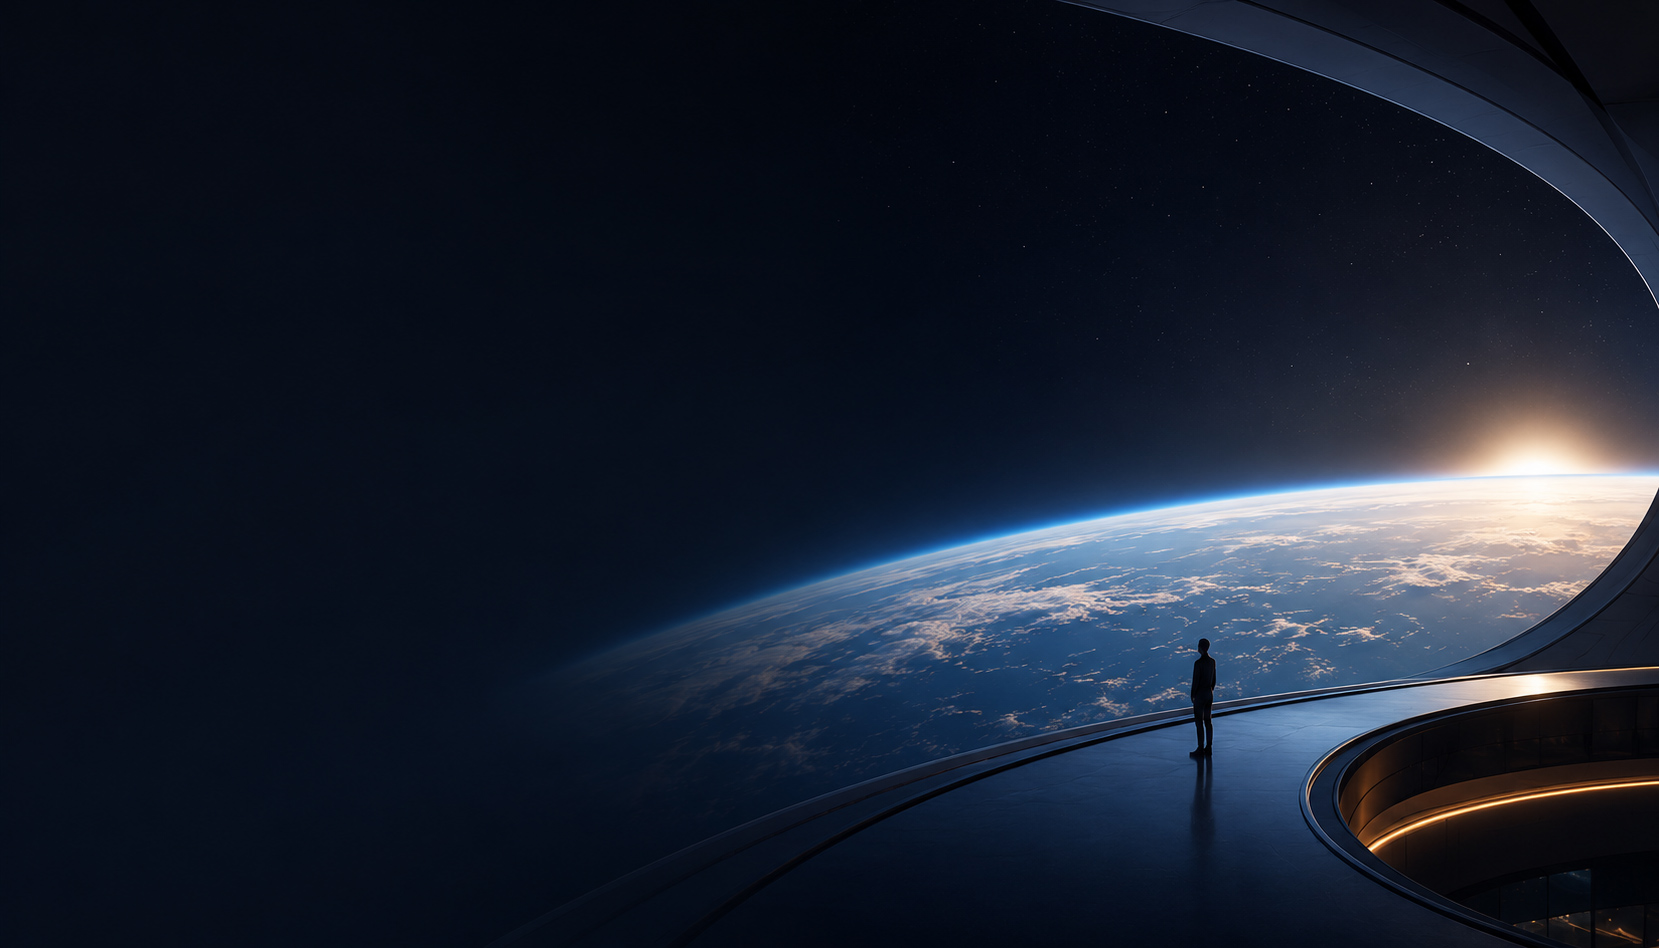
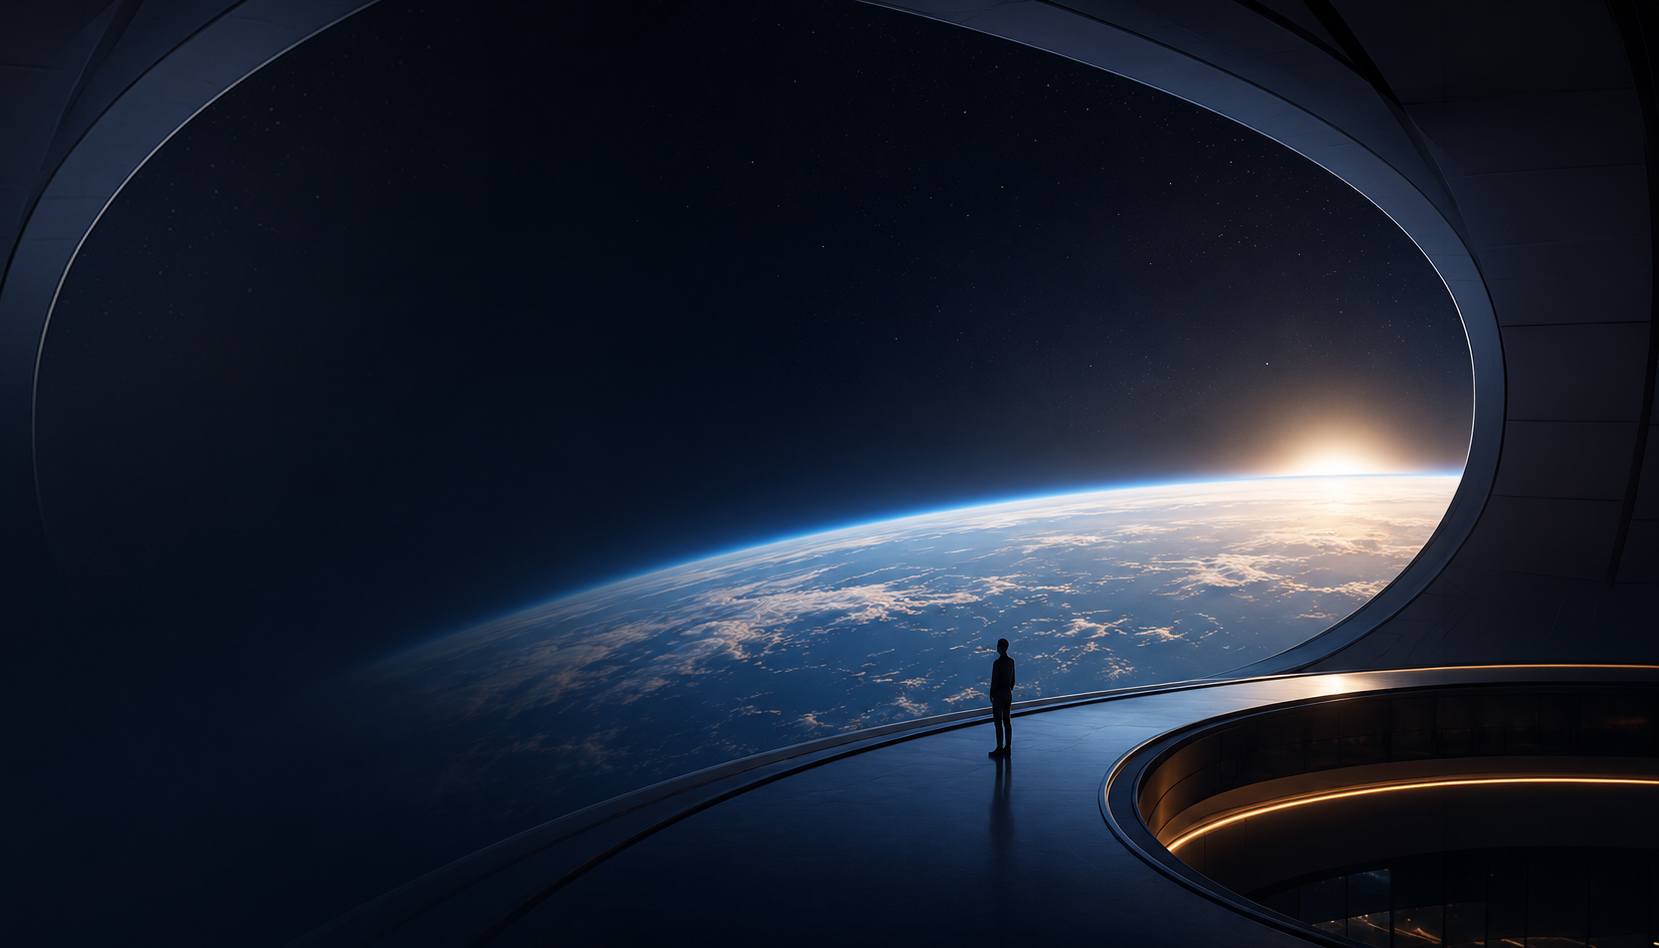
adjusted color scheme, copy began implementing iamges

diff --git a/src/views/HomeView.vue b/src/views/HomeView.vue
@@ -530,7 +530,7 @@ const formatNumber = (value: number) => new Intl.NumberFormat('en-US').format(va
   <div class="story-page">
     <header class="hero-block section-gap-xl">
       <div class="content-shell hero-content">
-        <p class="hero-kicker reveal" style="--d: 40ms">Meridian Story</p>
+        <img class="hero-logo reveal" style="--d: 20ms" src="../images/MS_logo.png" alt="Meridian Story logo" />
         <h1 class="reveal" style="--d: 140ms">{{ heroTitle }}</h1>
         <p class="hero-theme reveal" style="--d: 240ms">{{ heroTheme }}</p>
         <p class="hero-subtext reveal" style="--d: 340ms">
@@ -547,7 +547,6 @@ const formatNumber = (value: number) => new Intl.NumberFormat('en-US').format(va
         :class="{ 'is-visible': visibleChapters.chapter1_notLongAgo, 'is-active': activeChapter === 'chapter1_notLongAgo' }"
       >
         <div class="chapter-background">
-          <div class="placeholder-label">cinematic background placeholder</div>
         </div>
         <div class="content-shell chapter-layout chapter1-layout">
           <div class="chapter-copy reveal" style="--d: 80ms">
@@ -748,10 +747,23 @@ const formatNumber = (value: number) => new Intl.NumberFormat('en-US').format(va
   min-height: 92svh;
   display: flex;
   align-items: center;
+  background: linear-gradient(180deg, rgba(5, 9, 18, 0.46), rgba(5, 9, 18, 0.64)),
+    linear-gradient(90deg, rgba(5, 9, 18, 0.42), rgba(5, 9, 18, 0.06)),
+    url('../images/hero.jpg');
+  background-size: cover;
+  background-position: center center;
+  background-repeat: no-repeat;
 }
 
 .hero-content {
   max-width: 920px;
+}
+
+.hero-logo {
+  width: clamp(170px, 18vw, 280px);
+  height: auto;
+  display: block;
+  margin-bottom: 1.1rem;
 }
 
 .hero-kicker,
@@ -765,7 +777,7 @@ const formatNumber = (value: number) => new Intl.NumberFormat('en-US').format(va
 
 h1,
 h2 {
-  margin: 0.9rem 0 0;
+  margin: 2.76rem 0 0;
   line-height: 1.04;
   letter-spacing: -0.02em;
   font-family: Georgia, 'Times New Roman', serif;
@@ -1167,8 +1179,19 @@ h2 {
 }
 
 .bg-orbit-dawn {
-  background: radial-gradient(circle at 80% 20%, rgba(249, 199, 132, 0.24), rgba(249, 199, 132, 0) 34%),
-    linear-gradient(132deg, rgba(72, 86, 150, 0.72), rgba(16, 22, 42, 0.92));
+  background: linear-gradient(132deg, rgba(72, 86, 150, 0.72), rgba(16, 22, 42, 0.92));
+}
+
+.bg-orbit-dawn .chapter-background {
+  background-image: radial-gradient(circle at 80% 20%, rgba(249, 199, 132, 0.1), rgba(249, 199, 132, 0) 34%),
+    linear-gradient(132deg, rgba(10, 16, 31, 0.1), rgba(6, 12, 24, 0.26)), url('../images/chapter1.jpg');
+  background-size: cover;
+  background-position: center center;
+  background-repeat: no-repeat;
+}
+
+.bg-orbit-dawn .chapter-background::before {
+  background: linear-gradient(180deg, rgba(5, 9, 18, 0.18), rgba(5, 9, 18, 0.38));
 }
 
 .bg-engine-trails {